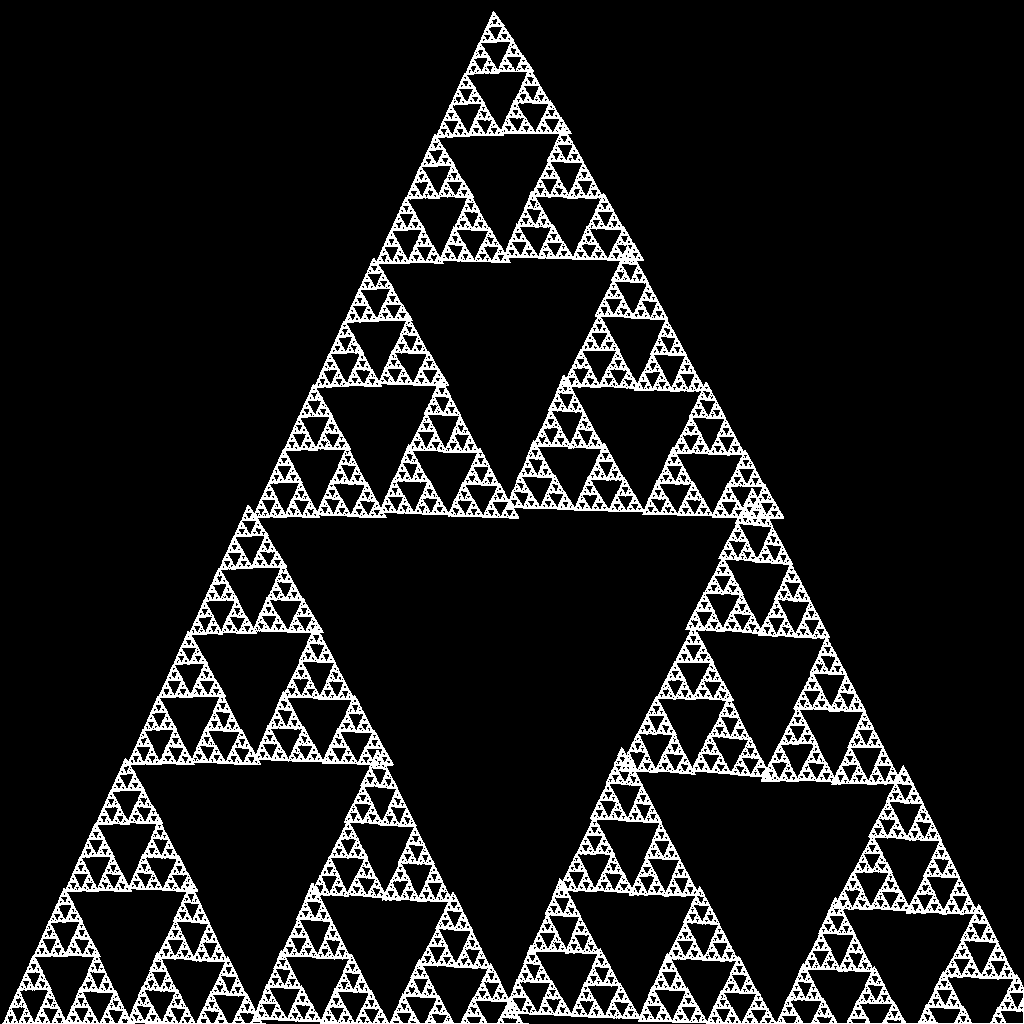
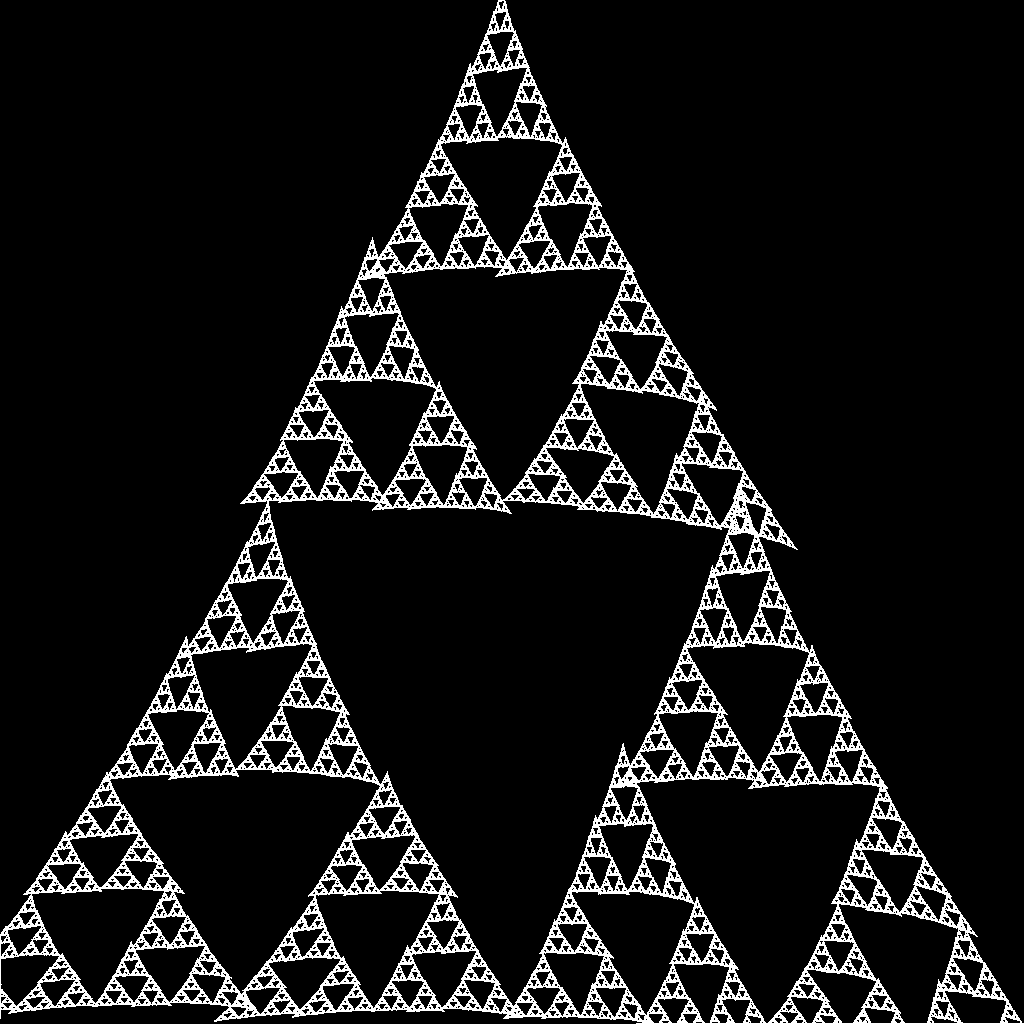
progress on find fractal

Changed region(s): [[0.0, 0.0, 1.0, 1.0]]

diff --git a/src/demo_gradients.py b/src/demo_gradients.py
@@ -10,22 +10,33 @@ from compute_image_interface import compute_image
 from draw import draw_image, draw_points
 from find_fractal import subsample_image
 from gen_fractal import generate_fractal
-from gradients import gradient_descent, greedy_descent, greedy_descent_2
+from gradients import gradient_descent, gradient_descent_2, greedy_descent, greedy_descent_2
 from rectangle import Rectangle, rectangles_to_function_system, rectangle_to_contiguous_affine_function, rectangles_to_vector, vectors_to_function_system, vectors_to_rectangles
 from find_fractal import error
 
-SUBSAMPLE_SIZE = 64
-NUM_STEPS = 2000
-LEARNING_RATE = 1e-2
-GRADIENT_APPROXIMATION_EPSILON = 1e-3
-GREEDY_STEP_SIZE = 1e-2
-N_RUNS = 32
+SUBSAMPLE_SIZE = 32
+NUM_STEPS = 500
+GRADIENT_APPROXIMATION_EPSILON = 1e-2
+N_RUNS = 24
+USED_METHOD = "gradient_descent"
 
+# gradient_descent parameters
+LEARNING_RATE = 5e-2
+
+# greedy parameters
+GREEDY_STEP_SIZE = 1e-2
+
+# backtracking line search parameters
+INITIAL_STEP_SIZE = 0.1
+MAX_STEP_SIZE_TRIES = 10
+STEP_SIZE_DECREASE = 0.75
+EXPECTED_GRADIENT_GAIN = 0.5
+
+# stray from the original parameters
 STD_STRAY = 1e-1
 
 N_POINTS = 5 * SUBSAMPLE_SIZE * SUBSAMPLE_SIZE
 
-USED_METHOD = "gradient_descent"
 
 
 # read a grayscale image
@@ -44,16 +55,20 @@ objective_function = lambda rectangles_param_vector: error(rectangles_param_vect
 # create a few random starts for the gradient descent
 np.random.seed(0)
 param_vector_size = 5 * n_rectangles
-# initial_param_vectors = np.random.uniform(0, 1, N_RUNS * param_vector_size).reshape((N_RUNS, param_vector_size)).astype(np.float32)
-old_top_rectangles = [Rectangle(center_x=0.18183221, center_y=0.8518872, width=0.5413586, height=0.46516478, rotate_angle=0.6695025), Rectangle(center_x=0.67693424, center_y=0.86053306, width=0.57093024, height=0.46157643, rotate_angle=0.66512793), Rectangle(center_x=0.49311495, center_y=0.24331623, width=0.50257236, height=0.5156987, rotate_angle=1.0)]
-old_top_vector = rectangles_to_vector(old_top_rectangles)
-initial_param_vectors = (np.random.normal(0, STD_STRAY, N_RUNS * param_vector_size).reshape((N_RUNS, param_vector_size)).astype(np.float32) + old_top_vector).clip(0, 1)
+initial_param_vectors = np.random.uniform(0, 1, N_RUNS * param_vector_size).reshape((N_RUNS, param_vector_size)).astype(np.float32)
+# old_top_rectangles = [Rectangle(center_x=0.18183221, center_y=0.8518872, width=0.5413586, height=0.46516478, rotate_angle=0.6695025), Rectangle(center_x=0.67693424, center_y=0.86053306, width=0.57093024, height=0.46157643, rotate_angle=0.66512793), Rectangle(center_x=0.49311495, center_y=0.24331623, width=0.50257236, height=0.5156987, rotate_angle=1.0)]
+# old_top_vector = rectangles_to_vector(old_top_rectangles)
+# initial_param_vectors = (np.random.normal(0, STD_STRAY, N_RUNS * param_vector_size).reshape((N_RUNS, param_vector_size)).astype(np.float32) + old_top_vector).clip(0, 1)
 
 # optimize
 
 
 def gradient_descent_wrapper(initial_param_vector, show_progress):
     return gradient_descent(objective_function, initial_param_vector, learning_rate=LEARNING_RATE, num_steps=NUM_STEPS, gradient_approximation_epsilon=GRADIENT_APPROXIMATION_EPSILON, show_progress=show_progress)
+
+
+def gradient_descent_2_wrapper(initial_param_vector, show_progress):
+    return gradient_descent_2(objective_function, initial_param_vector, initial_step_size=INITIAL_STEP_SIZE, max_step_size_tries=MAX_STEP_SIZE_TRIES, step_size_decrease=STEP_SIZE_DECREASE, expected_gradient_gain=EXPECTED_GRADIENT_GAIN, num_steps=NUM_STEPS, gradient_approximation_epsilon=GRADIENT_APPROXIMATION_EPSILON, show_progress=show_progress)
 
 
 def greedy_descent_wrapper(initial_param_vector, show_progress):
@@ -66,6 +81,7 @@ def greedy_descent_2_wrapper(initial_param_vector, show_progress):
 
 optimization_methods = {
     "gradient_descent": gradient_descent_wrapper,
+    "gradient_descent_2": gradient_descent_2_wrapper,
     "greedy_descent": greedy_descent_wrapper,
     "greedy_descent_2": greedy_descent_2_wrapper
 }
@@ -82,9 +98,10 @@ scores_sorted = [scores[i] for i in ranks]
 for rank, (score, param_vector) in enumerate(zip(scores_sorted, param_vectors_sorted), 1):
     print(f"Top {rank} score: {score}, rectangles: {vectors_to_rectangles(param_vector)}")
 # plot the errors
-y_min = np.min(error_courses)
-y_max = np.quantile(error_courses, 0.99)
-for i, error_course in enumerate(error_courses):
+plotted_courses = error_courses[::4]
+y_min = np.min(plotted_courses)
+y_max = np.quantile(plotted_courses, 0.99)
+for i, error_course in enumerate(plotted_courses):
     plt.plot(error_course, label=f"Run {i}")
 plt.ylim(bottom=y_min, top=y_max)
 plt.title(f"learning rate: {LEARNING_RATE}, num steps: {NUM_STEPS}, epsilon: {GRADIENT_APPROXIMATION_EPSILON}")

diff --git a/src/find_fractal.py b/src/find_fractal.py
@@ -26,26 +26,13 @@ def error(rectangles_param_vector: npt.NDArray[np.float32], target_image: npt.ND
     return np.mean((image - target_image) ** 2)
 
 
-def find_fractal(target_image: npt.NDArray[np.float32], n_rectangles: int, n_runs: int = DEFAULT_N_RUNS, n_steps: int = DEFAULT_NUM_STEPS, learning_rate: float = DEFAULT_LEARNING_RATE, gradient_descent_epsilon: float = DEFAULT_GRADIENT_APPROXIMATION_EPSILON) -> list[Rectangle]:
-    # half the image size until it the image consists of only 16 pixels in the smallest dimension
-    image_sizes = [(target_image.shape[0] // 2**i, target_image.shape[1] // 2**i) for i in range(int(np.log2(min(target_image.shape))) - 3)][::-1]
-    # make some initial guesses
+def find_fractal(target_image: npt.NDArray[np.float32], n_rectangles: int) -> list[Rectangle]:
+    subsampled_target_image_32 = subsample_image(target_image, 32, 32)
+    subsampled_target_image_64 = subsample_image(target_image, 64, 64)
     np.random.seed(0)
-    x_size = 5 * n_rectangles
-    top_x = np.random.uniform(0, 1, x_size).reshape((x_size)).astype(np.float32).clip(0, 1)
-    for width, height in image_sizes:
-        # subsample the image
-        subsampled_target = subsample_image(target_image, width, height)
-        # set some hyperparameters
-        np.random.seed(0)
-        n_points = N_POINTS_PER_PIXEL * width * height
-        starting_point = np.random.rand(2)
-        selected_indices = np.random.randint(0, n_rectangles, (n_points,))
-        # build the objective function with that fixed seed
-        objective_function = lambda x: error(x, subsampled_target, num_points=n_points, starting_point=starting_point, selected_indices=selected_indices)  # NOSONAR
-        # create a few random starts for the gradient descent
-        top_x, _ = gradient_descent(objective_function, top_x, learning_rate=learning_rate, num_steps=n_steps, gradient_approximation_epsilon=gradient_descent_epsilon)
-    return [Rectangle(*top_x[i:i + 5]) for i in range(0, len(top_x), 5)]
+    starting_point = np.random.rand(2)
+    selected_indices = np.random.randint(0, n_rectangles, (N_POINTS,)).astype(np.uint32)
+    optimizer_1 = lambda initial_param_vectors: gradient_descent(lambda rectangles_param_vector: error(rectangles_param_vector, subsampled_target_image_32, num_points=32 * 32 * N_POINTS_PER_PIXEL, starting_point=np.random.rand(2), selected_indices=np.random.randint(0, n_rectangles, (32 * 32 * N_POINTS_PER_PIXEL,)).astype(np.uint32)), initial_param_vectors, learning_rate=DEFAULT_LEARNING_RATE, num_steps=DEFAULT_NUM_STEPS, gradient_approximation_epsilon=DEFAULT_GRADIENT_APPROXIMATION_EPSILON)
 
 
 def subsample_image(image: npt.NDArray[np.float32], sub_image_width: int, sub_image_height: int) -> npt.NDArray[np.float32]:

diff --git a/src/gradients.py b/src/gradients.py
@@ -43,6 +43,34 @@ def gradient_descent(f: Callable, x_start: npt.NDArray[np.float32], learning_rat
     return best_x, errors
 
 
+def gradient_descent_2(f: Callable, x_start: npt.NDArray[np.float32], initial_step_size: float, max_step_size_tries: float, step_size_decrease: float, expected_gradient_gain: float, num_steps: int = 100, gradient_approximation_epsilon: float = 1e-2, show_progress: bool = False) -> npt.NDArray[np.float32]:
+    """Perform gradient descent with backtracking line search on a scalar function f starting at x_start."""
+
+    x = x_start.copy()
+    best_error = np.inf
+    best_x = x_start.copy()
+    errors = []
+    errors.append(f(x))
+    for _ in tqdm(range(num_steps), leave=False) if show_progress else range(num_steps):
+        step_size = initial_step_size
+        gradient = gradient_approximation(f, x, gradient_approximation_epsilon)
+        walk_direction = - gradient / np.linalg.norm(gradient)
+        for _ in range(max_step_size_tries):
+            x_plus = x + step_size * walk_direction
+            x_plus = np.clip(x_plus, 0, 1)
+            error_plus = f(x_plus)
+            if error_plus < errors[-1] + expected_gradient_gain * step_size * gradient @ walk_direction:
+                break
+            step_size *= step_size_decrease
+        x = x_plus
+        error = f(x)
+        if error < best_error:
+            best_error = error
+            best_x = x.copy()
+        errors.append(error)
+    return best_x, errors
+
+
 def greedy_descent(f: Callable, x_start: npt.NDArray[np.float32], num_steps: int = 100, step_size: float = 1e-2, show_progress: bool = False) -> npt.NDArray[np.float32]:
     """Perform greedy gradient descent on a scalar function f starting at x_start."""
 

diff --git a/src/binarize.py b/src/binarize.py
@@ -1,0 +1,3 @@
+import cv2
+
+adaptive_threshold_gaussian = cv2.adaptiveThreshold(img, 255, cv2.ADAPTIVE_THRESH_GAUSSIAN_C, cv2.THRESH_BINARY, 5, 6)
